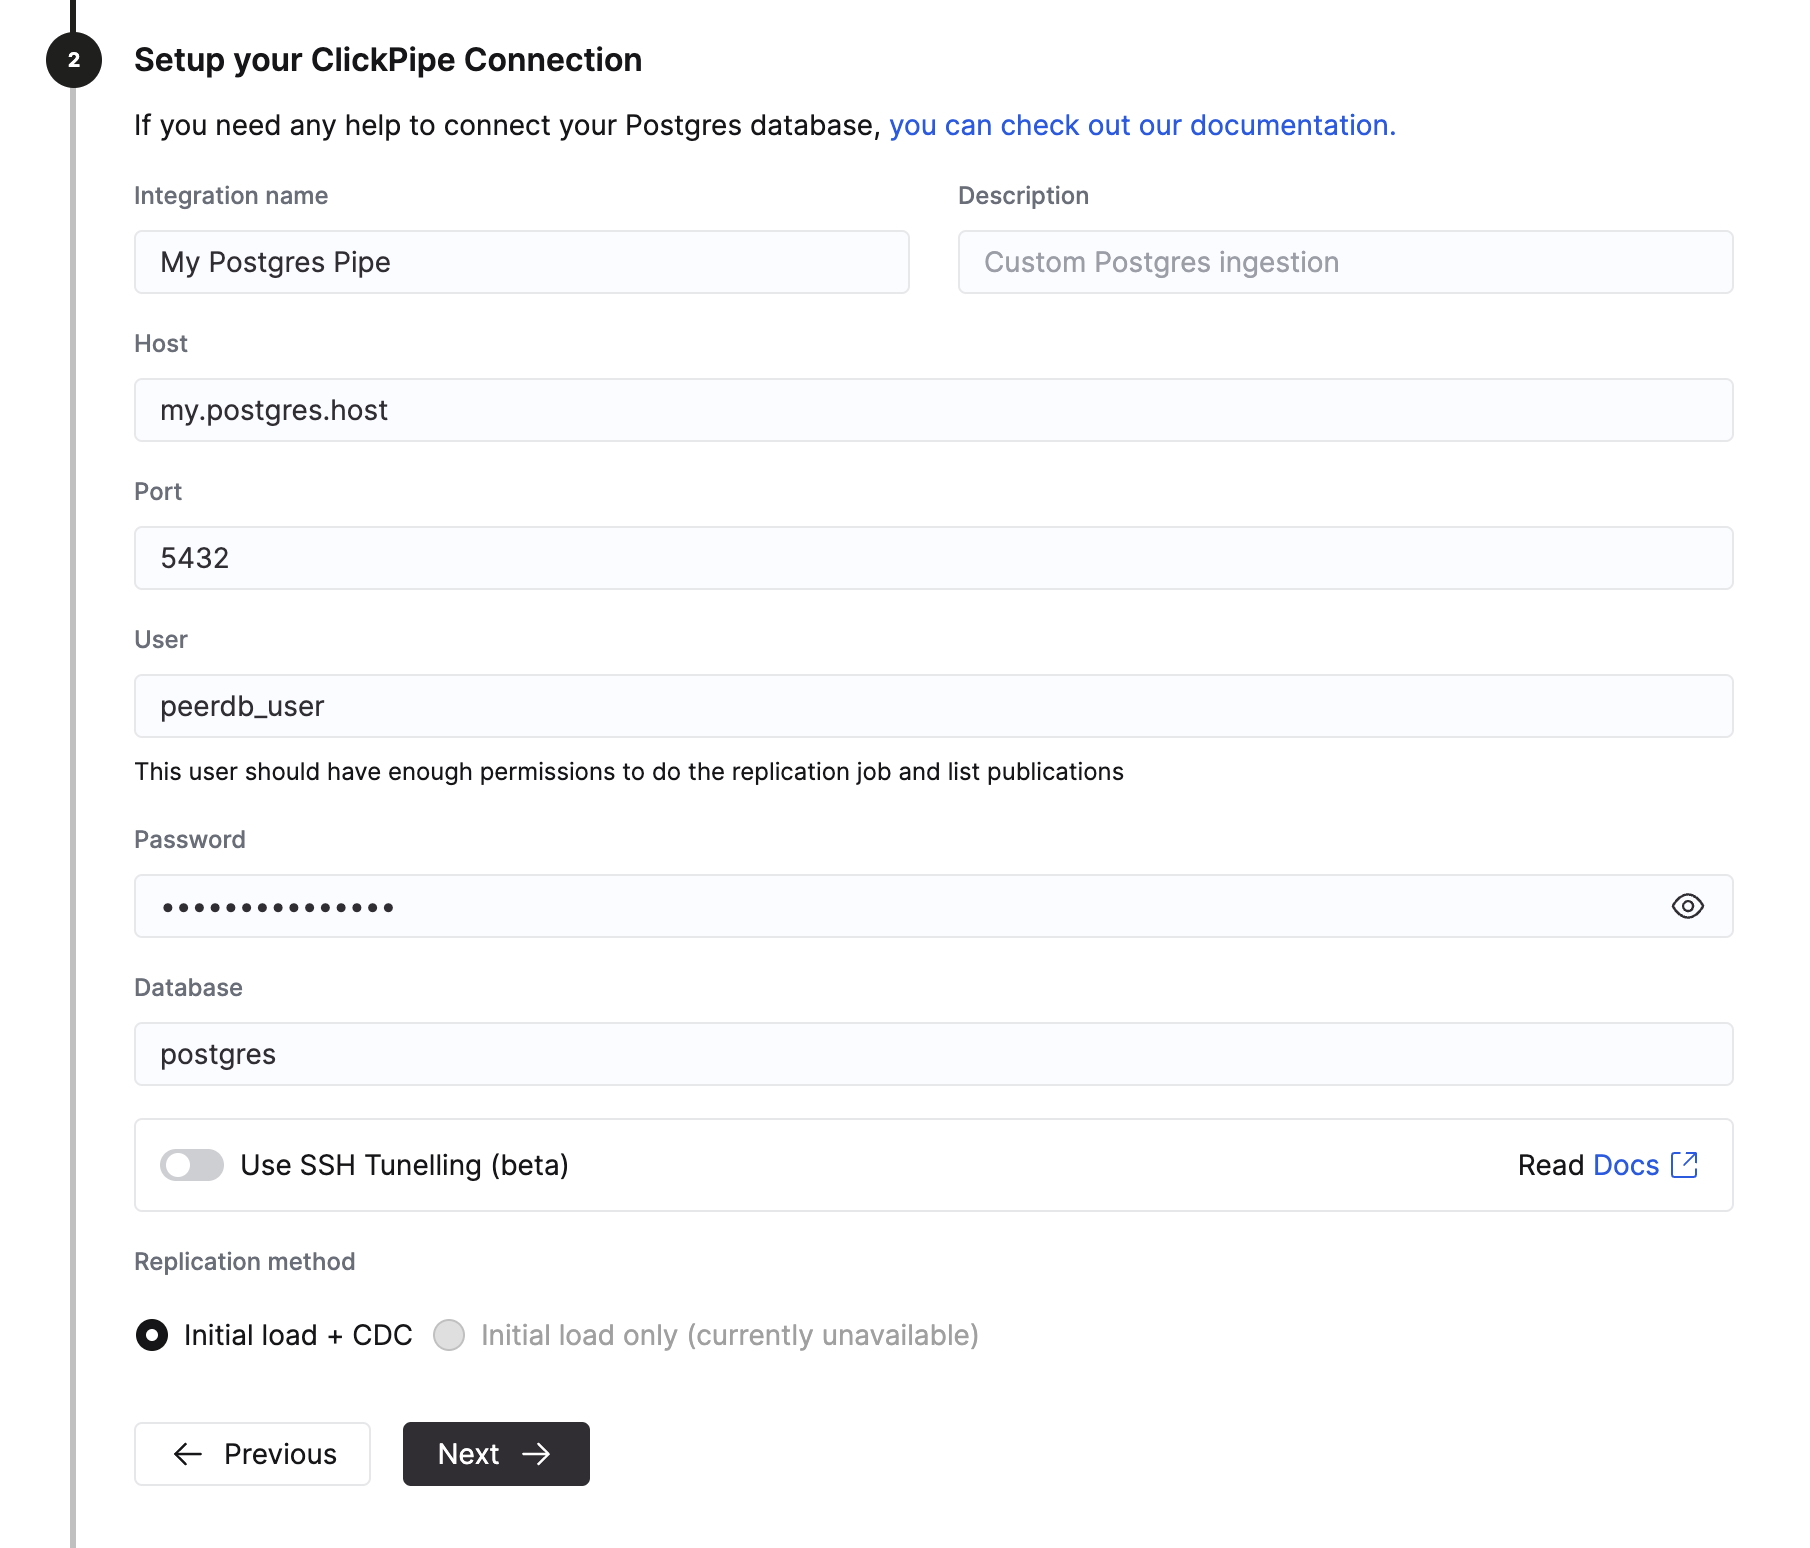
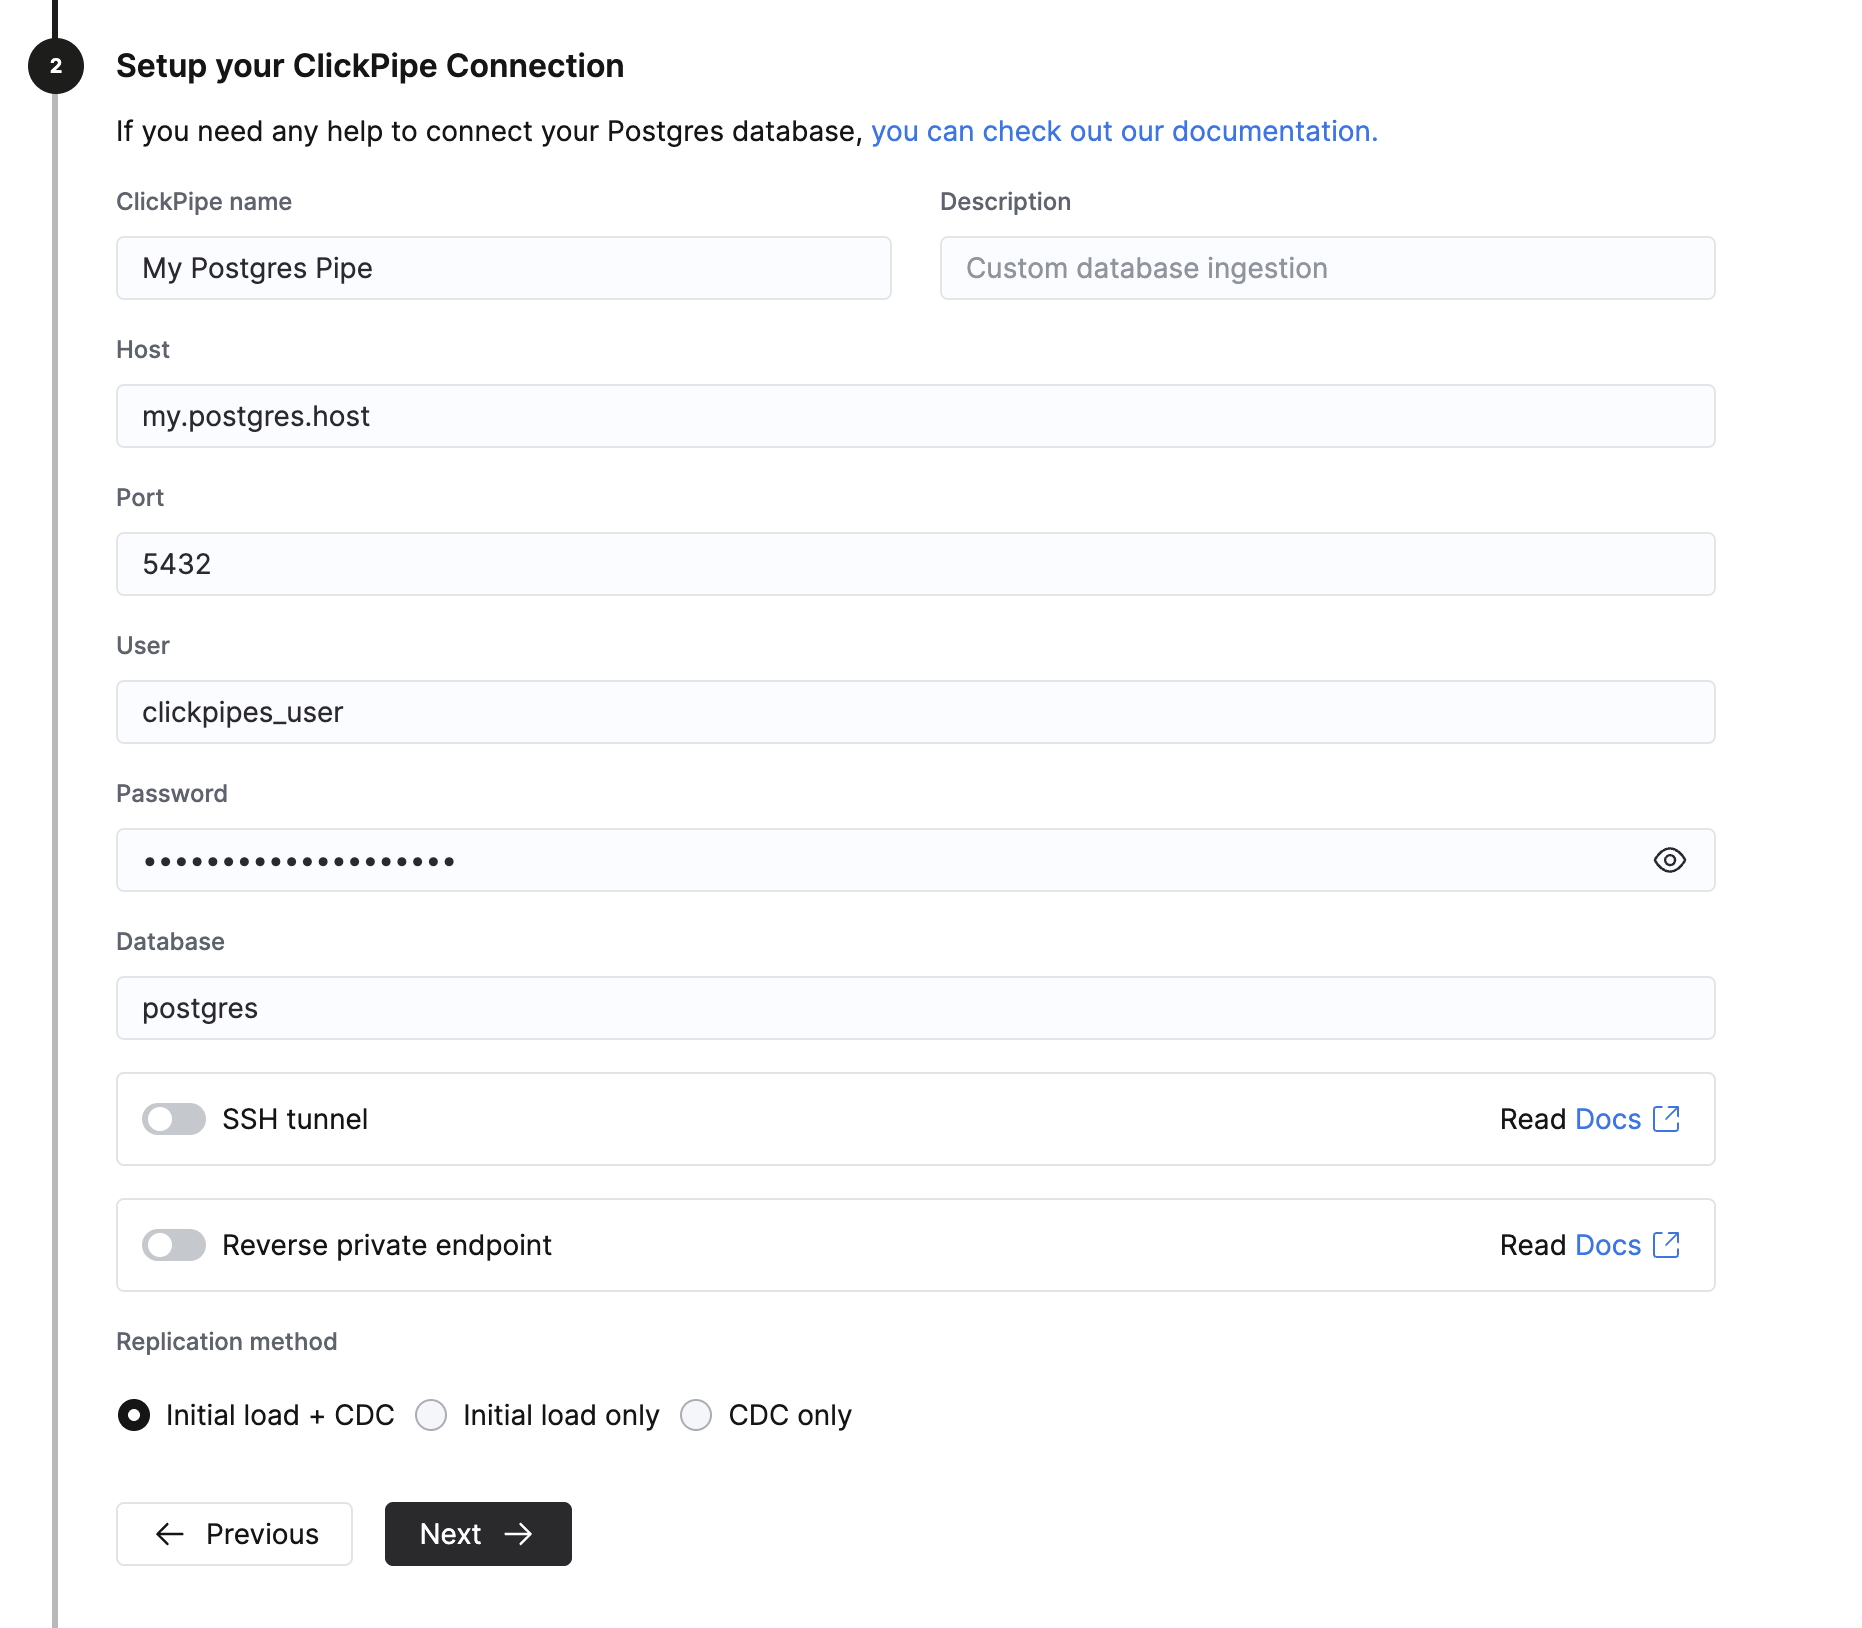
refactor(clickpipes): reverse private link for postgres

Changed region(s): [[0.0, 0.0, 0.9282, 1.0], [0.526, 0.124, 0.7425, 0.186]]

diff --git a/docs/integrations/data-ingestion/clickpipes/index.md b/docs/integrations/data-ingestion/clickpipes/index.md
@@ -14,6 +14,7 @@ import S3svg from '@site/static/images/integrations/logos/amazon_s3_logo.svg';
 import Amazonkinesis from '@site/static/images/integrations/logos/amazon_kinesis_logo.svg';
 import Gcssvg from '@site/static/images/integrations/logos/gcs.svg';
 import Postgressvg from '@site/static/images/integrations/logos/postgresql.svg';
+import Mysqlsvg from '@site/static/images/integrations/logos/mysql.svg';
 import redpanda_logo from '@site/static/images/integrations/logos/logo_redpanda.png';
 import clickpipes_stack from '@site/static/images/integrations/data-ingestion/clickpipes/clickpipes_stack.png';
 import cp_custom_role from '@site/static/images/integrations/data-ingestion/clickpipes/cp_custom_role.png';
@@ -29,18 +30,20 @@ import Image from '@theme/IdealImage';
 
 ## Supported Data Sources {#supported-data-sources}
 
-| Name                 |Logo|Type| Status          | Description                                                                                          |
-|----------------------|----|----|-----------------|------------------------------------------------------------------------------------------------------|
-| Apache Kafka         |<Kafkasvg class="image" alt="Apache Kafka logo" style={{width: '3rem', 'height': '3rem'}}/>|Streaming| Stable          | Configure ClickPipes and start ingesting streaming data from Apache Kafka into ClickHouse Cloud.     |
-| Confluent Cloud      |<Confluentsvg class="image" alt="Confluent Cloud logo" style={{width: '3rem'}}/>|Streaming| Stable          | Unlock the combined power of Confluent and ClickHouse Cloud through our direct integration.          |
-| Redpanda             |<Image img={redpanda_logo} size="logo" alt="Redpanda logo"/> |Streaming| Stable          | Configure ClickPipes and start ingesting streaming data from Redpanda into ClickHouse Cloud.         |
-| AWS MSK              |<Msksvg class="image" alt="AWS MSK logo" style={{width: '3rem', 'height': '3rem'}}/>|Streaming| Stable          | Configure ClickPipes and start ingesting streaming data from AWS MSK into ClickHouse Cloud.          |
-| Azure Event Hubs     |<Azureeventhubssvg class="image" alt="Azure Event Hubs logo" style={{width: '3rem'}}/>|Streaming| Stable          | Configure ClickPipes and start ingesting streaming data from Azure Event Hubs into ClickHouse Cloud. |
-| WarpStream           |<Warpstreamsvg class="image" alt="WarpStream logo" style={{width: '3rem'}}/>|Streaming| Stable          | Configure ClickPipes and start ingesting streaming data from WarpStream into ClickHouse Cloud.       |
-| Amazon S3            |<S3svg class="image" alt="Amazon S3 logo" style={{width: '3rem', height: 'auto'}}/>|Object Storage| Stable          | Configure ClickPipes to ingest large volumes of data from object storage.                            |
-| Google Cloud Storage |<Gcssvg class="image" alt="Google Cloud Storage logo" style={{width: '3rem', height: 'auto'}}/>|Object Storage| Stable          | Configure ClickPipes to ingest large volumes of data from object storage.                            |
-| Amazon Kinesis       |<Amazonkinesis class="image" alt="Amazon Kenesis logo" style={{width: '3rem', height: 'auto'}}/>|Streaming| Stable          | Configure ClickPipes and start ingesting streaming data from Amazon Kinesis into ClickHouse cloud.   |
-| Postgres             |<Postgressvg class="image" alt="Postgres logo" style={{width: '3rem', height: 'auto'}}/>|DBMS| Public Beta | Configure ClickPipes and start ingesting data from Postgres into ClickHouse Cloud.                   |
+| Name                 | Logo                                                                                             |Type| Status           | Description                                                                                          |
+|----------------------|--------------------------------------------------------------------------------------------------|----|------------------|------------------------------------------------------------------------------------------------------|
+| Apache Kafka         | <Kafkasvg class="image" alt="Apache Kafka logo" style={{width: '3rem', 'height': '3rem'}}/>      |Streaming| Stable           | Configure ClickPipes and start ingesting streaming data from Apache Kafka into ClickHouse Cloud.     |
+| Confluent Cloud      | <Confluentsvg class="image" alt="Confluent Cloud logo" style={{width: '3rem'}}/>                 |Streaming| Stable           | Unlock the combined power of Confluent and ClickHouse Cloud through our direct integration.          |
+| Redpanda             | <Image img={redpanda_logo} size="logo" alt="Redpanda logo"/>                                     |Streaming| Stable           | Configure ClickPipes and start ingesting streaming data from Redpanda into ClickHouse Cloud.         |
+| AWS MSK              | <Msksvg class="image" alt="AWS MSK logo" style={{width: '3rem', 'height': '3rem'}}/>             |Streaming| Stable           | Configure ClickPipes and start ingesting streaming data from AWS MSK into ClickHouse Cloud.          |
+| Azure Event Hubs     | <Azureeventhubssvg class="image" alt="Azure Event Hubs logo" style={{width: '3rem'}}/>           |Streaming| Stable           | Configure ClickPipes and start ingesting streaming data from Azure Event Hubs into ClickHouse Cloud. |
+| WarpStream           | <Warpstreamsvg class="image" alt="WarpStream logo" style={{width: '3rem'}}/>                     |Streaming| Stable           | Configure ClickPipes and start ingesting streaming data from WarpStream into ClickHouse Cloud.       |
+| Amazon S3            | <S3svg class="image" alt="Amazon S3 logo" style={{width: '3rem', height: 'auto'}}/>              |Object Storage| Stable           | Configure ClickPipes to ingest large volumes of data from object storage.                            |
+| Google Cloud Storage | <Gcssvg class="image" alt="Google Cloud Storage logo" style={{width: '3rem', height: 'auto'}}/>  |Object Storage| Stable           | Configure ClickPipes to ingest large volumes of data from object storage.                            |
+| Amazon Kinesis       | <Amazonkinesis class="image" alt="Amazon Kenesis logo" style={{width: '3rem', height: 'auto'}}/> |Streaming| Stable           | Configure ClickPipes and start ingesting streaming data from Amazon Kinesis into ClickHouse cloud.   |
+| Postgres             | <Postgressvg class="image" alt="Postgres logo" style={{width: '3rem', height: 'auto'}}/>         |DBMS| Public Beta      | Configure ClickPipes and start ingesting data from Postgres into ClickHouse Cloud.                   |
+| MySQL                | <Mysqlsvg class="image" alt="MySQL logo" style={{width: '3rem', height: 'auto'}}/>               |DBMS| Private Beta | Configure ClickPipes and start ingesting data from MySQL into ClickHouse Cloud.                      |
+
 
 More connectors will get added to ClickPipes, you can find out more by [contacting us](https://clickhouse.com/company/contact?loc=clickpipes).
 

diff --git a/docs/integrations/data-ingestion/clickpipes/aws-privatelink.md b/docs/integrations/data-ingestion/clickpipes/aws-privatelink.md
@@ -77,7 +77,7 @@ that will be accessible in a ClickPipes VPC.
 It's a preferred choice for:
 
 - Any on-premise Kafka setup that requires private DNS support
-- Cross-region connectivity for Postgres CDC
+- [Cross-region connectivity for Postgres CDC](/knowledgebase/aws-privatelink-setup-for-clickpipes)
 - Cross-region connectivity for MSK cluster. Please reach out to the ClickHouse support team for assistance.
 
 See the [getting started](https://docs.aws.amazon.com/vpc/latest/privatelink/privatelink-share-your-services.html) guide for more details.
@@ -113,8 +113,10 @@ can be configured for ClickPipes. Add [your ClickPipe region](#aws-privatelink-r
 5. Select any of existing reverse private endpoints or create a new one.
 
 :::info
-For RDS, the process to create the VPC Endpoint service is a bit more involved and
+If cross-region access is required for RDS, you need to create a VPC endpoint service and 
 [this guide should provide](/knowledgebase/aws-privatelink-setup-for-clickpipes) a good starting point to set it up.
+
+For same-region access, creating a VPC Resource is the recommended approach.
 :::
 
 <Image img={cp_rpe_step1} alt="Select reverse private endpoint" size="lg" border/>

diff --git a/docs/integrations/data-ingestion/clickpipes/postgres/index.md b/docs/integrations/data-ingestion/clickpipes/postgres/index.md
@@ -87,6 +87,12 @@ Make sure you are logged in to your ClickHouse Cloud account. If you don't have 
 
    <Image img={postgres_connection_details} alt="Fill in connection details" size="lg" border/>
 
+#### (Optional) Setting up AWS Private Link {#optional-setting-up-aws-private-link}
+
+You can use AWS Private Link to connect to your source Postgres database if it is hosted on AWS. This is useful if you
+want to keep your data transfer private.
+You can follow the [setup guide to set up the connection](/integrations/clickpipes/aws-privatelink).
+
 #### (Optional) Setting up SSH Tunneling {#optional-setting-up-ssh-tunneling}
 
 You can specify SSH tunneling details if your source Postgres database is not publicly accessible.
